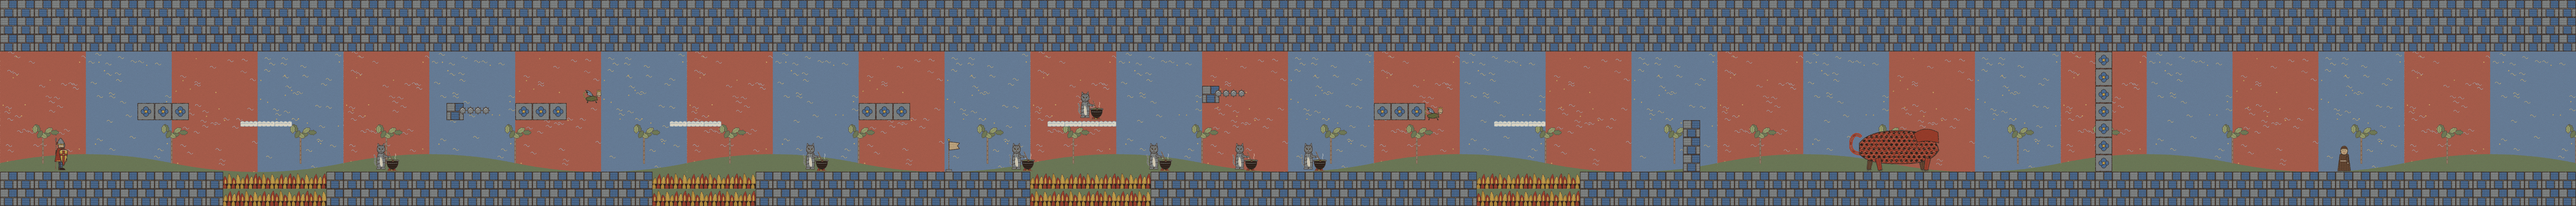
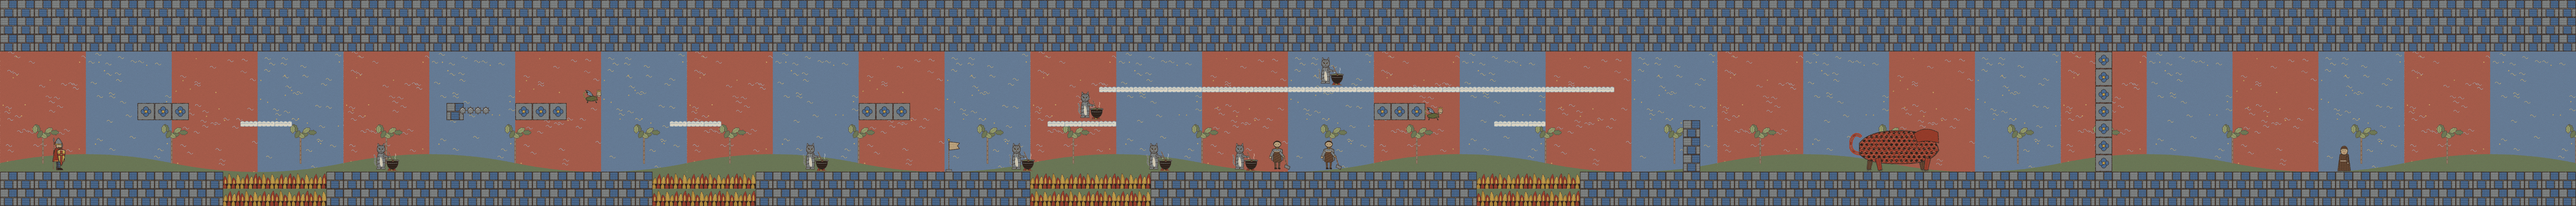
Add looping castle halls (5-4, 6-4, 7-4): take the high road or be sent back
Claude-Session: https://claude.ai/code/session_01Ub925vA7W77qaH7zf1hUDR

Changed region(s): [[0.4062, 0.3125, 0.625, 0.5], [0.4688, 0.6875, 0.5312, 0.8438], [0.0, 0.7188, 0.0312, 0.8125]]

diff --git a/unity/Assets/Scripts/Game/GameManager.cs b/unity/Assets/Scripts/Game/GameManager.cs
@@ -31,6 +31,8 @@ namespace Tapestry
         // secret doors: faint on the wall until the knight draws near; UP in front of one warps him on to the next realme
         readonly List<KeyValuePair<Vector2, SpriteRenderer>> secretDoors = new List<KeyValuePair<Vector2, SpriteRenderer>>();
         int warpTarget = -1;
+        // looping halls: cross the gate (ʌ) without having taken the high road (above 5.5 between the return point ʀ and the gate) and ye halls turn thee back
+        float loopGateX = -1f; Vector2 loopReturn; bool loopHigh; int loopCount;
         Lift pendingBalance;   // the first board of a balance pair, waiting for its other
         // halfway banner
         SpriteRenderer checkpointView;
@@ -445,7 +447,7 @@ namespace Tapestry
         void LoadLevel()
         {
             if (world != null) Destroy(world.gameObject);
-            enemies.Clear(); shots.Clear(); bezants.Clear(); debris.Clear(); items.Clear(); lifts.Clear(); riding = null; pendingBalance = null; secretDoors.Clear(); warpTarget = -1; popups.Clear(); hasCheckpoint = false; checkpointView = null;
+            enemies.Clear(); shots.Clear(); bezants.Clear(); debris.Clear(); items.Clear(); lifts.Clear(); riding = null; pendingBalance = null; secretDoors.Clear(); warpTarget = -1; loopGateX = -1f; loopHigh = false; loopCount = 0; popups.Clear(); hasCheckpoint = false; checkpointView = null;
             windT = 3f; wind = 0f; leapT = 2f; windToldOf = false;
             tymeLeft = L.Time; hurried = false; deathTyme = false; Audio.MusicPitch(1f);
             flails.Clear(); winds.Clear(); wheels.Clear(); wheelAngle = 0f; herds.Clear(); herdsSent.Clear(); raftLaunches.Clear(); raftTimers.Clear(); houndT = 3f; houndsToldOf = false; herdT = 2f; logs.Clear(); showManicule = false; logPiles.Clear(); logTimers.Clear(); boss = null; toldOfBoss = false; bossMusic = false; hasAxe = collapsing = false; hasMonk = rescuedMonk = false; bayard = null; winPhase = 0; toast = null;
@@ -528,6 +530,8 @@ namespace Tapestry
                     case 'þ': kind = "snail_spike"; break;
                     case 'ȼ': kind = "bombard"; break;
                     case 'ĩ': kind = "imp_cloud"; break;
+                    case 'ʌ': loopGateX = p.x; break;
+                    case 'ʀ': loopReturn = p; break;
                     case 'ŷ': secretDoors.Add(new KeyValuePair<Vector2, SpriteRenderer>(p, Art.Make("scenery/secret_door", world, p, -3))); break;
                     case 'ƒ': kind = "snail_wing"; break;
                     case 'é': kind = "ember"; break;
@@ -1167,6 +1171,18 @@ namespace Tapestry
             if (pb.Grounded && pb.Vel.y <= 0f && level.Basket(Mathf.FloorToInt(pb.Pos.x), Mathf.FloorToInt(pb.Pos.y - 0.1f)))
             { pb.Vel.y = TapestryInput.JumpHeld ? 21f : 17f; pb.Grounded = false; Audio.Play("spring"); }
             TickHornAndFountain(pb);
+            if (loopGateX > 0f && !inBonus)
+            {
+                if (pb.Pos.x > loopReturn.x && pb.Pos.x < loopGateX && pb.Pos.y > 5.5f) loopHigh = true;
+                if (pb.Pos.x >= loopGateX && !loopHigh)   // the wrong road: the halls fold back upon themselves
+                {
+                    pb.Pos = loopReturn; pb.Vel = Vector2.zero;
+                    camX = ClampCam(loopReturn.x + 4f); PlaceCamera();
+                    Audio.Play("powerup", 0.8f);
+                    Toast(loopCount == 0 ? "Ye halls turne thee backe! This waye is a loope." : "Ye same halls agayne... seeke ye hye roade.");
+                    loopCount++;
+                }
+            }
             foreach (var sd in secretDoors)   // a secret door: dim until the knight nears; then UP goes through
             {
                 float dd = Mathf.Abs(pb.Pos.x - sd.Key.x);

diff --git a/unity/Assets/Scripts/Levels/Level20.cs b/unity/Assets/Scripts/Levels/Level20.cs
@@ -20,12 +20,12 @@ namespace Tapestry
                 "VVVVVVVVVVVVVVVVVVVVVVVVVVVVVVVVVVVVVVVVVVVVVVVVVVVVVVVVVVVVVVVVVVVVVVVVVVVVVVVVVVVVVVVVVVVVVVVVVVVVVVVVVVVVVVVVVVVVVVVVVVVVVVVVVVVVVVVVVVVVVVVVVVVVVV",
                 "VVVVVVVVVVVVVVVVVVVVVVVVVVVVVVVVVVVVVVVVVVVVVVVVVVVVVVVVVVVVVVVVVVVVVVVVVVVVVVVVVVVVVVVVVVVVVVVVVVVVVVVVVVVVVVVVVVVVVVVVVVVVVVVVVVVVVVVVVVVVVVVVVVVVVV",
                 "                                                                                                                          D",
-                "                                                                                                                          D",
-                "                                                                      F                                                   D",
+                "                                                                             y                                            D",
+                "                                                                ==============================                            D",
                 "        ?M?               F   ?W?                 BRB          I                B1B                                       D",
                 "              ===                    ===                     ====                      ===        V                       D",
                 "                                                                                                  V                       D",
-                "   P                  y                       I        C   y       y    I ß  ß     I              V           6           D             N",
+                "   P                  y                       I        C  ʀy       y    I ß  ß     I          ʌ   V           6           D             N",
                 "VVVVVVVVVVVVV******VVVVVVVVVVVVVVVVV*******VVVVVVVVVVVVVVVVV*******VVVVVVVVVVVVVVVVVVV******VVVVVVVVVVVVVVVVVVVVVVVVVVVVVVVVVVVVVVVVVVVVVVVVVVVVVVVVVV",
                 "VVVVVVVVVVVVV******VVVVVVVVVVVVVVVVV*******VVVVVVVVVVVVVVVVV*******VVVVVVVVVVVVVVVVVVV******VVVVVVVVVVVVVVVVVVVVVVVVVVVVVVVVVVVVVVVVVVVVVVVVVVVVVVVVVV",
             },

diff --git a/unity/Assets/Scripts/Levels/Level24.cs b/unity/Assets/Scripts/Levels/Level24.cs
@@ -19,12 +19,12 @@ namespace Tapestry
                 "VVVVVVVVVVVVVVVVVVVVVVVVVVVVVVVVVVVVVVVVVVVVVVVVVVVVVVVVVVVVVVVVVVVVVVVVVVVVVVVVVVVVVVVVVVVVVVVVVVVVVVVVVVVVVVVVVVVVVVVVVVVVVVVVVVVVVVVVVVVVVVVVVVVVVV",
                 "VVVVVVVVVVVVVVVVVVVVVVVVVVVVVVVVVVVVVVVVVVVVVVVVVVVVVVVVVVVVVVVVVVVVVVVVVVVVVVVVVVVVVVVVVVVVVVVVVVVVVVVVVVVVVVVVVVVVVVVVVVVVVVVVVVVVVVVVVVVVVVVVVVVVVV",
                 "                                                                                                                          D",
-                "                                                                                                                          D",
-                "                                                                      F                                                   D",
+                "                                                                             }                                            D",
+                "                                                                ==============================                            D",
                 "        ?M?               F   ?W?                 BRB          {                B1B                                       D",
                 "              ===                      ===                   ====                      ===        V                       D",
                 "                                                                                                  V                       D",
-                "   P                  }           @            {       C   }       }    { ß  ß     {              V           $           D             N",
+                "   P                  }           @            {       C  ʀ}       }    { ß  ß     {          ʌ   V           $           D             N",
                 "VVVVVVVVVVVVV******VVVVVVVVVVVVVVVVVVV******VVVVVVVVVVVVVVVV*******VVVVVVVVVVVVVVVVVVV******VVVVVVVVVVVVVVVVVVVVVVVVVVVVVVVVVVVVVVVVVVVVVVVVVVVVVVVVVV",
                 "VVVVVVVVVVVVV******VVVVVVVVVVVVVVVVVVV******VVVVVVVVVVVVVVVV*******VVVVVVVVVVVVVVVVVVV******VVVVVVVVVVVVVVVVVVVVVVVVVVVVVVVVVVVVVVVVVVVVVVVVVVVVVVVVVV",
             },

diff --git a/unity/Assets/Scripts/Levels/Level28.cs b/unity/Assets/Scripts/Levels/Level28.cs
@@ -19,12 +19,12 @@ namespace Tapestry
                 "VVVVVVVVVVVVVVVVVVVVVVVVVVVVVVVVVVVVVVVVVVVVVVVVVVVVVVVVVVVVVVVVVVVVVVVVVVVVVVVVVVVVVVVVVVVVVVVVVVVVVVVVVVVVVVVVVVVVVVVVVVVVVVVVVVVVVVVVVVVVVVVVVVVVVV",
                 "VVVVVVVVVVVVVVVVVVVVVVVVVVVVVVVVVVVVVVVVVVVVVVVVVVVVVVVVVVVVVVVVVVVVVVVVVVVVVVVVVVVVVVVVVVVVVVVVVVVVVVVVVVVVVVVVVVVVVVVVVVVVVVVVVVVVVVVVVVVVVVVVVVVVVV",
                 "                                                                                                                          D",
-                "                                                                                                                          D",
-                "                                  &                                   F                                                   D",
+                "                                                                             k                                            D",
+                "                                  &                             ==============================                            D",
                 "        ?M?               F   ?W?                 BRB          k                B1B&                                      D",
                 "              ===                      ===                   ====                      ===        V                       D",
                 "                                                                                                  V                       D",
-                "   P                  k                        k       C   k       k    k ß  ß                    V           2           D             N",
+                "   P                  k                        k       C  ʀk       k    k ß  ß                ʌ   V           2           D             N",
                 "VVVVVVVVVVVVV******VVVVVVVVVVVVVVVVVVV******VVVVVVVVVVVVVVVV*******VVVVVVVVVVVVVVVVVVV******VVVVVVVVVVVVVVVVVVVVVVVVVVVVVVVVVVVVVVVVVVVVVVVVVVVVVVVVVV",
                 "VVVVVVVVVVVVV******VVVVVVVVVVVVVVVVVVV******VVVVVVVVVVVVVVVV*******VVVVVVVVVVVVVVVVVVV******VVVVVVVVVVVVVVVVVVVVVVVVVVVVVVVVVVVVVVVVVVVVVVVVVVVVVVVVVV",
             },

diff --git a/tools/unity/make_levels.py b/tools/unity/make_levels.py
@@ -82,6 +82,12 @@ def air(m, ch, xs, y=4):
             if _clear(m, x - 1, x + 1, y, y + 1) and not _near(m, x, "PCG[:", 8) and not _near(m, x, "ĩ", 25):
                 m.put(x, y, ch); placed.append(x); break
     return placed
+def loop_route(m, ret=58, gate=94, y=6):
+    """A looping hall in a castle: cross the gate on the low road and ye halls turn thee back to `ret`; the high road
+    (a row of beams a little above the pits, reached from the beam platforms) lets thee pass."""
+    m.put(70, 6, " ")                                     # the swinging flail makes way for the high road
+    m.row(64, y, "=" * 30)
+    m.put(ret, 2, "\u0280"); m.put(gate, 2, "\u028c")
 def span(m, a, b, kind):
     """Hang two boards across the blank pit a..b (at least six wide): falling ones or a balance pair."""
     m.put(a + 1, 2, kind); m.put(a + 4, 2, kind)
@@ -712,6 +718,7 @@ for y in range(2, 5): m.put(98, y, "V")
 for y in range(2, 9): m.put(122, y, "D")
 m.put(110, 2, "6")
 m.put(136, 2, "N")
+loop_route(m)
 write("Level20", "Worlde 5-4", "Ye Unicorne in Captivitie", "HERE YE UNICORNE IS FENCED IN, AND SPARED", m,
       [], "", 0, "castle", "backgrounds/garden_far", "backgrounds/castle_near",
       skin=W5, plank="scenery/rail", gate="scenery/gate_paling")
@@ -805,6 +812,7 @@ for y in range(2, 5): m.put(98, y, "V")                          # a low wall: l
 for y in range(2, 9): m.put(122, y, "D")                         # the way on, shut until both are overcome
 m.put(110, 2, "$")
 m.put(136, 2, "N")
+loop_route(m)
 write("Level24", "Worlde 6-4", "A mon seul desir", "HERE YE LYON AND YE UNICORNE GUARDE YE LADYE'S TENTE", m,
       [], "", 0, "castle", "backgrounds/pavilion_far", "backgrounds/castle_near",
       skin=W6, plank="scenery/garland")
@@ -885,6 +893,7 @@ for y in range(2, 5): m.put(98, y, "V")
 for y in range(2, 9): m.put(122, y, "D")
 m.put(110, 2, "2")
 m.put(136, 2, "N")
+loop_route(m)
 write("Level28", "Worlde 7-4", "Ye Beaste of Seven Heddes", "HERE YE BEASTE RISETH OUT OF YE SEA WITH SEVEN HEDDES", m,
       [], "", 0, "castle", "backgrounds/apoc_far", "backgrounds/castle_near",
       skin=W7, plank="scenery/cloud_scroll")
